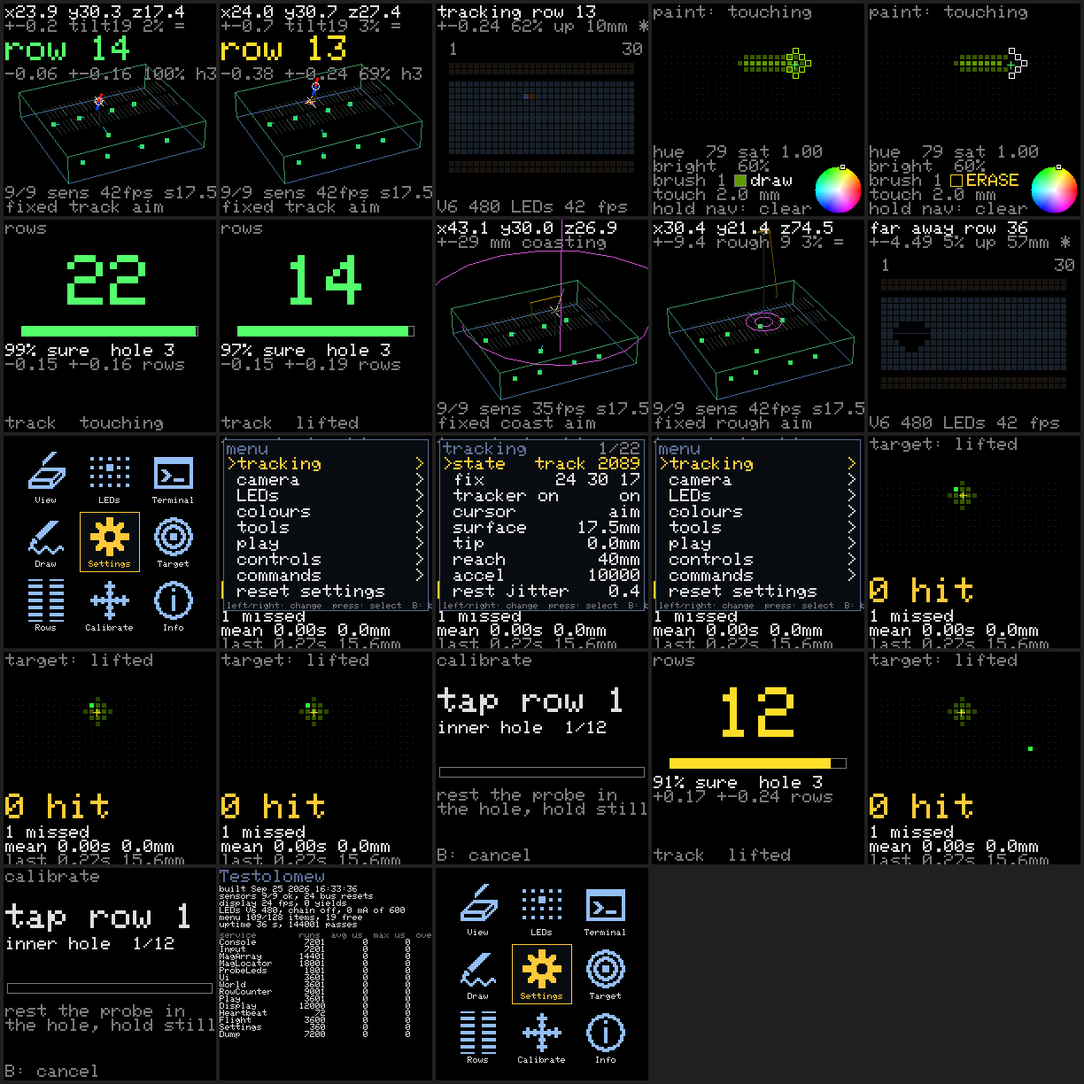
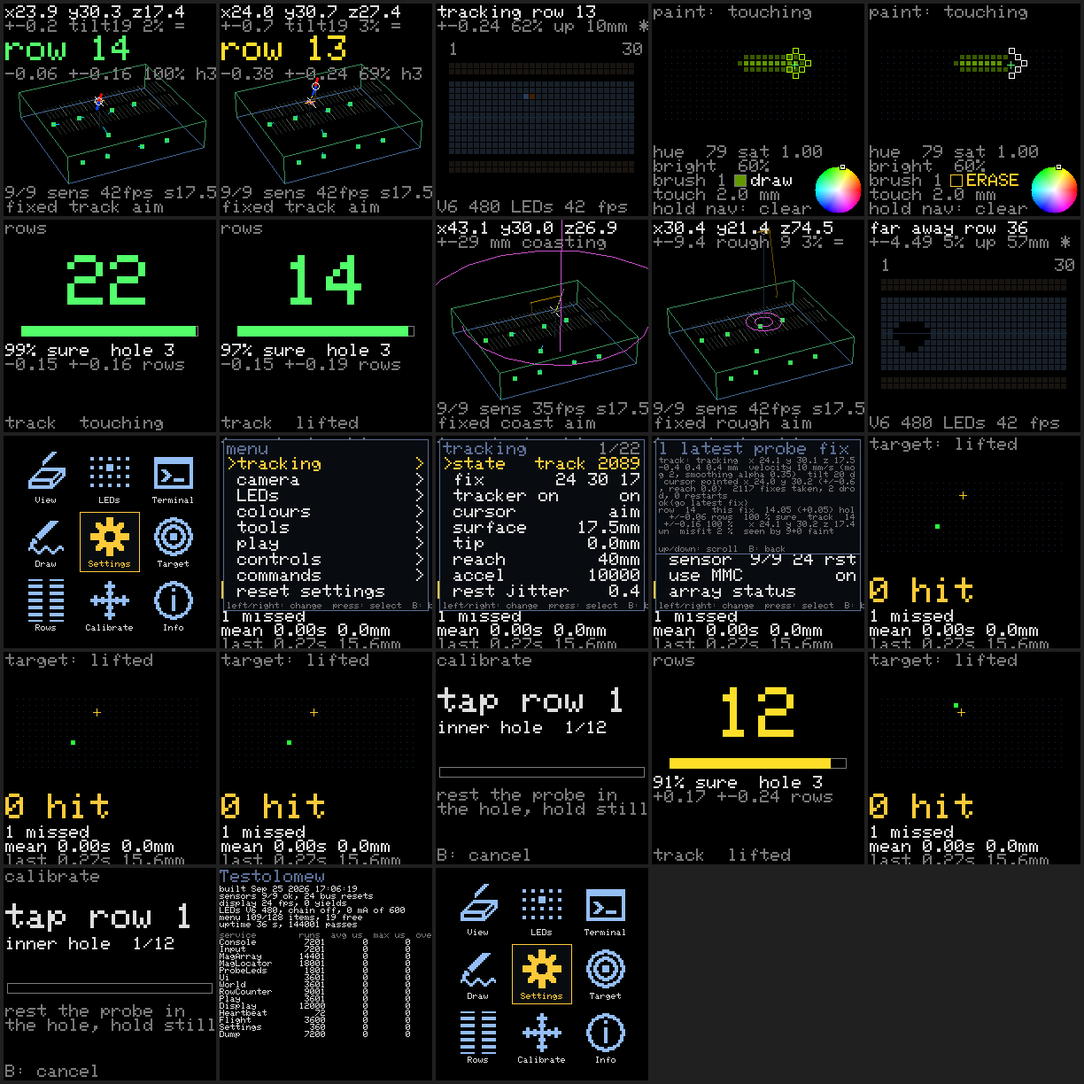
The review's fix pass on 48086e4 (five reviewers by dimension, three skeptics per finding: 21 confirmed, 6 refuted). A toggle and a choice act on the CLICK, not the press, so a select HELD on one tweaks it without ever touching it (UiShell::actsOnClick; the hold's undo ran an accessor's setter twice

diff --git a/src/apps/SettingsMenu.cpp b/src/apps/SettingsMenu.cpp
@@ -197,22 +197,22 @@ void settingsMenuBuild( Menu* m ) {
     menuAddChoiceAccessor( m, tracking, "cursor", getCursorMode, setCursorMode, cursorModeNames, 2 );
     menuAddNumber( m, tracking, "surface", &magLocator.boardZ, 0.0f, 60.0f, 0.5f, "mm" );
     menuAddNumber( m, tracking, "tip", &magLocator.tipOffsetMm, 0.0f, 60.0f, 0.5f, "mm" );
-    menuAddNumber( m, tracking, "reach", &magLocator.track.maxReachMm, 5.0f, 40.0f, 2.5f, "mm" ); // (5-100 until 2026-09-25: past 40 it never engages - the reach is the drop x tan 70 deg at most)
+    menuAddNumber( m, tracking, "reach", &magLocator.track.maxReachMm, 5.0f, 60.0f, 2.5f, "mm" ); // (5-100 until 2026-09-25: the reach is the drop x tan 70 deg at most - 55 mm from a 20 mm hover - so 60 is the useful end)
     // The smoothing, the levers that are felt first (tools/hostsim/pencil.cpp,
     // 2026-09-25: the ranges are where the pencil measured a change):
     // accel sets the Kalman's rest jitter against its lag (0.075 mm at 500
     // to 0.5 at 20000 in the bench-like world, 40 to 20 ms), rest jitter
     // the field EMA's (0: three times the jitter; 2: half, +10 ms), the
-    // betas how fast the 1-Euro filters open with speed (their whole
-    // effect is under 0.5; at 1 they were flat), the Hz where they sit at
+    // betas how fast the 1-Euro filters open with speed (the lag's whole
+    // effect is under 0.5, the jitter's runs on to 2), the Hz where they sit at
     // rest - which only shows with the beta low, since the rest jitter's
     // own speed opens the cutoff by beta x 2-5 mm/s.
     menuAddNumber( m, tracking, "accel", &magLocator.track.accelSigma, 250.0f, 20000.0f, 250.0f, "" );
     menuAddNumber( m, tracking, "rest jitter", &magLocator.speedJitterK, 0.0f, 3.0f, 0.1f, "" );
     menuAddNumber( m, tracking, "view Hz", &magLocator.track.viewMinCutoff, 0.1f, 5.0f, 0.1f, "" );
-    menuAddNumber( m, tracking, "view beta", &magLocator.track.viewBeta, 0.0f, 0.5f, 0.01f, "" );
+    menuAddNumber( m, tracking, "view beta", &magLocator.track.viewBeta, 0.0f, 2.0f, 0.02f, "" );
     menuAddNumber( m, tracking, "cursor Hz", &magLocator.track.oneEuroMinCutoff, 0.1f, 5.0f, 0.1f, "" );
-    menuAddNumber( m, tracking, "cursor beta", &magLocator.track.oneEuroBeta, 0.0f, 0.5f, 0.01f, "" );
+    menuAddNumber( m, tracking, "cursor beta", &magLocator.track.oneEuroBeta, 0.0f, 2.0f, 0.02f, "" );
     menuAddNumber( m, tracking, "shaft Hz", &magLocator.track.shaftMinCutoff, 0.1f, 5.0f, 0.1f, "" );
     menuAddNumber( m, tracking, "shaft beta", &magLocator.track.shaftBeta, 0.0f, 10.0f, 0.25f, "" );
     menuAddNumber( m, tracking, "floor", &magLocator.track.sigmaFloorMm, 0.1f, 3.0f, 0.1f, "mm" );

diff --git a/src/probeled/ProbeLeds.h b/src/probeled/ProbeLeds.h
@@ -34,8 +34,10 @@
 // whole wheel mapped the style's way (hueTurns turns of it over the scale,
 // from hueStartDeg; under a turn a chunk of the spectrum as a gradient,
 // over it several rainbows; the height scale liftFullMm) and, in every
-// scheme, the cursor WHITE with the point on the board, all the scheme's
-// colour from colourByMm up. What DIMS the cursor (brightBy, by
+// scheme but classic, which keeps its own white-to-blue ramp over the
+// height scale and reads none of the wheel's levers, the cursor WHITE with
+// the point on the board and all the scheme's colour from colourByMm up.
+// What DIMS the cursor (brightBy, by
 // brightAmount at the data's far end) and what raises the SPARKLE's density
 // (sparkleBy) are chosen from the same data: how unsure the row is, the
 // height, the tilt, the speed, or nothing. FULL PEAK (the brightest LED is always the peak,
@@ -143,7 +145,7 @@ enum ProbeLedScheme {
     PROBELED_SCHEME_CLASSIC, // white on the board, blue lifted (touch/lift colours below), purple from afar
     PROBELED_SCHEME_HEIGHT,  // hue by height: hueTurns of the wheel from the board to liftFullMm
     PROBELED_SCHEME_SURE,    // hue by how sure the row is: the wheel from a toss-up to certain
-    PROBELED_SCHEME_AIM,     // hue by which way the probe leans (a turn of the wheel is the compass), white standing straight, all colour from PROBELED_AIM_FULL_DEG of lean
+    PROBELED_SCHEME_AIM,     // hue by which way the probe leans (one turn of the wheel is the compass, whatever hueTurns says), white standing straight, all colour from PROBELED_AIM_FULL_DEG of lean
     PROBELED_SCHEME_RAINBOW, // hue runs along the board (hueTurns over its 30 rows) and round with time
     PROBELED_SCHEME_COUNT
 };
@@ -204,7 +206,7 @@ struct ProbeLedStyle {
     float attackS, decayS; // per-LED smoothing time constants
     // The looks.
     int scheme;         // ProbeLedScheme
-    float hueTurns;     // turns of the wheel over the scheme's scale (under 1 a chunk of the spectrum, over 1 several rainbows)
+    float hueTurns;     // turns of the wheel over the scheme's scale - the height (held at the scale's end above it), the sureness, the board's rows (under 1 a chunk of the spectrum, over 1 several rainbows; not the aim's compass, not classic)
     float hueStartDeg;  // where the wheel starts (0 red, 120 green, 240 blue)
     float colourByMm;   // the scheme's colour is all in from this height (white on the board below PROBELED_WHITE_BELOW_MM)
     int brightBy;       // ProbeLedData: what dims the cursor...

diff --git a/src/ui/UiShell.cpp b/src/ui/UiShell.cpp
@@ -139,26 +139,25 @@ void uiShellShowResult( UiShell* s, const char* title, int lines, int visible ) 
         noteChange( s );
 }
 
+// A toggle or a choice acts on the CLICK (the release of a short press),
+// not on the press like a page or an action, so that a press HELD on it
+// tweaks it without touching it: an accessor's setter with side effects
+// (the tracker reset, the chain darkened and re-lit) must not run for a
+// look at the value (the review, 2026-09-25).
+static bool actsOnClick( const UiShell* s, int index ) {
+    return index >= 0 && ( s->menu.items[ index ].kind == MENU_TOGGLE || s->menu.items[ index ].kind == MENU_CHOICE );
+}
+
 // A select held on a value item of the menu page: the value is tweaked
-// over the app. The press that started the hold has already acted on a
-// toggle or a choice (a press selects on its way down): that is taken back.
-// A hold whose press led elsewhere (into a page, an action) is nothing.
+// over the app. A hold whose press led elsewhere (into a page, an action)
+// is nothing.
 static void openTweak( UiShell* s ) {
     int index = menuCursorItem( &s->menu );
     if ( index < 0 || index != s->selectPressItem )
         return;
-    switch ( s->menu.items[ index ].kind ) {
-    case MENU_TOGGLE:
-        menuToggleSet( &s->menu, index, !menuToggleGet( &s->menu, index ) );
-        break;
-    case MENU_CHOICE:
-        menuChoiceSet( &s->menu, index, menuChoiceGet( &s->menu, index ) - 1 );
-        break;
-    case MENU_NUMBER:
-        break;
-    default:
+    MenuKind kind = s->menu.items[ index ].kind;
+    if ( kind != MENU_TOGGLE && kind != MENU_CHOICE && kind != MENU_NUMBER )
         return;
-    }
     push( s, PANE_TWEAK );
 }
 
@@ -276,8 +275,12 @@ int uiShellEvent( UiShell* s, InputEvent e, uint32_t nowMs ) {
         if ( isSelect( c ) ) {
             if ( e.kind == IN_PRESS ) {
                 s->selectPressItem = menuCursorItem( &s->menu );
+                if ( actsOnClick( s, s->selectPressItem ) )
+                    return -1; // a toggle, a choice: on the click (or held: the tweak)
                 return menuAction( s, menuKey( &s->menu, MENUKEY_ENTER, false ) );
             }
+            if ( e.kind == IN_CLICK && actsOnClick( s, menuCursorItem( &s->menu ) ) && menuCursorItem( &s->menu ) == s->selectPressItem )
+                return menuAction( s, menuKey( &s->menu, MENUKEY_ENTER, false ) );
             if ( e.kind == IN_HOLD )
                 openTweak( s );
             return -1;

diff --git a/test/test_probeleds/test_probeleds.cpp b/test/test_probeleds/test_probeleds.cpp
@@ -310,6 +310,20 @@ void test_hue_scale_turns_and_start( void ) {
     probeLedRender( &v6, &in, &style, 0.02f, &frame );
     b = brightest( &frame );
     TEST_ASSERT_TRUE( frame.r[ b ] == 255 && frame.g[ b ] > 150 && frame.g[ b ] < 220 && frame.b[ b ] < 10 );
+    // Above the scale the colour holds at the wheel's end (the review,
+    // 2026-09-25: unclamped, a probe 20-45 mm up cycled the wheel and read as
+    // any height on the scale).
+    style.hueTurns = 0.667f;
+    in.heightMm = 20.0f;
+    probeLedRender( &v6, &in, &style, 0.02f, &frame );
+    b = brightest( &frame );
+    uint8_t topR = frame.r[ b ], topG = frame.g[ b ], topB = frame.b[ b ];
+    in.heightMm = 45.0f;
+    probeLedRender( &v6, &in, &style, 0.02f, &frame );
+    b = brightest( &frame );
+    TEST_ASSERT_TRUE( abs( (int)frame.r[ b ] - (int)topR ) < 3 && abs( (int)frame.g[ b ] - (int)topG ) < 3 && abs( (int)frame.b[ b ] - (int)topB ) < 3 );
+    in.heightMm = 10.0f;
+    style.hueTurns = 0.25f;
     // The colour is all in from colourByMm up; on the board it is white.
     style.colourByMm = 12.0f;
     probeLedRender( &v6, &in, &style, 0.02f, &frame ); // 10 mm: most of the way from 1.5 to 12
@@ -361,6 +375,18 @@ void test_aim_scheme_colours_by_the_lean( void ) {
     probeLedRender( &v6, &in, &style, 0.02f, &frame );
     b = brightest( &frame );
     TEST_ASSERT_TRUE( frame.g[ b ] == 255 && frame.r[ b ] < 60 && frame.b[ b ] < 60 ); // a third round: green
+    // The compass is one turn of the wheel whatever the turns lever says: a
+    // lean a hair either side of +x is the same colour (the review,
+    // 2026-09-25: at 0.667 turns the hue jumped red/blue at the seam).
+    style.hueTurns = 0.667f;
+    in.aimDeg = 359.5f;
+    probeLedRender( &v6, &in, &style, 0.02f, &frame );
+    b = brightest( &frame );
+    uint8_t r0 = frame.r[ b ], g0 = frame.g[ b ], b0 = frame.b[ b ];
+    in.aimDeg = 0.5f;
+    probeLedRender( &v6, &in, &style, 0.02f, &frame );
+    b = brightest( &frame );
+    TEST_ASSERT_TRUE( abs( (int)frame.r[ b ] - (int)r0 ) < 8 && abs( (int)frame.g[ b ] - (int)g0 ) < 8 && abs( (int)frame.b[ b ] - (int)b0 ) < 8 );
 }
 
 // What dims the cursor, and by how much, is the style's: unsure (the old

diff --git a/src/ui/UiShell.h b/src/ui/UiShell.h
@@ -15,8 +15,13 @@
 //                   selects; B closes
 //   Home            (opens with the cursor on Settings, the centre cell)
 //   Settings page   up/down move, LEFT/RIGHT CHANGE THE VALUE IN PLACE, a
-//                   press enters / runs / flips / cycles, a press HELD on a
-//                   toggle, a number or a choice tweaks it (below), B backs
+//                   press enters a page or runs an action on its way down;
+//                   a toggle flips and a choice cycles on the CLICK (the
+//                   release of a short press), so a press HELD on a toggle,
+//                   a number or a choice tweaks it (below) without ever
+//                   touching it (an accessor's setter with side effects -
+//                   the tracker reset, the chain darkened - must not run
+//                   for a look at the value; the review, 2026-09-25), B backs
 //                   a page (at the root: closes), B hold closes everything
 //                   (the page is kept: the menu opens again where it was
 //                   last used, even after B backed it out to the root)
@@ -24,9 +29,7 @@
 //                   value along the bottom: left/right change it, up/down
 //                   move to the neighbouring items, the joystick is the
 //                   app's (it orbits the scene being looked at); a press or
-//                   B: the menu again; B hold: everything closes. (The
-//                   press that started the hold already flipped a toggle or
-//                   cycled a choice: the hold takes that back.)
+//                   B: the menu again; B hold: everything closes.
 //   Confirm         a press or A: yes; B: no; B hold: everything closes
 //   Result          up/down scroll; a press, A or B dismiss
 //   20 s idle       overlays close (cursors and the page remembered) - not

diff --git a/src/probeled/ProbeLeds.cpp b/src/probeled/ProbeLeds.cpp
@@ -287,7 +287,7 @@ static void schemeColour( const ProbeLedStyle* style, const ProbeLedInput* in, f
     float wheel = style->hueTurns * 360.0f; // the wheel over the scheme's scale (probeLedHue wraps: over a turn is several rainbows)
     switch ( style->scheme ) {
     case PROBELED_SCHEME_HEIGHT:
-        probeLedHue( style->hueStartDeg + wheel * in->heightMm / style->liftFullMm, 1.0f, r, g, b );
+        probeLedHue( style->hueStartDeg + wheel * clamp01( in->heightMm / style->liftFullMm ), 1.0f, r, g, b ); // above the scale the wheel's end holds (unclamped, a probe 20-45 mm up read as any height: the review, 2026-09-25)
         whiteTo( r, g, b, colourByHeight( style, in->heightMm ) );
         break;
     case PROBELED_SCHEME_SURE:
@@ -295,8 +295,11 @@ static void schemeColour( const ProbeLedStyle* style, const ProbeLedInput* in, f
         whiteTo( r, g, b, colourByHeight( style, in->heightMm ) );
         break;
     case PROBELED_SCHEME_AIM:
-        // Which way the probe leans, round the wheel; white standing straight.
-        probeLedHue( style->hueStartDeg + style->hueTurns * in->aimDeg, 1.0f, r, g, b );
+        // Which way the probe leans, once round the wheel (the turns lever
+        // does not apply: at anything but a whole turn the compass had a
+        // seam at +x, red one frame and blue the next as the lean's y
+        // jittered about zero); white standing straight.
+        probeLedHue( style->hueStartDeg + in->aimDeg, 1.0f, r, g, b );
         whiteTo( r, g, b, colourByHeight( style, in->heightMm ) * clamp01( in->tiltDeg / PROBELED_AIM_FULL_DEG ) );
         break;
     case PROBELED_SCHEME_RAINBOW:

diff --git a/test/test_ui/test_ui.cpp b/test/test_ui/test_ui.cpp
@@ -455,18 +455,27 @@ void test_shell_tweak_edits_a_value_over_the_app( void ) {
     tap( IN_BTN_B ); // the menu again, where the cursor is
     TEST_ASSERT_EQUAL( PANE_MENU, uiShellTop( &shell ) );
     TEST_ASSERT_EQUAL( 0, shell.menu.cursor );
-    // A hold on a toggle: the press flipped it, the hold takes that back.
+    // A toggle (and a choice) flips on the CLICK, not the press, so a hold
+    // never touches it - an accessor's setter with side effects (the
+    // tracker reset, the chain darkened) must not run twice for a look
+    // at the value (the review, 2026-09-25).
+    TEST_ASSERT_TRUE( flag );
     send( IN_NAV_PRESS, IN_PRESS );
-    TEST_ASSERT_FALSE( flag );
+    TEST_ASSERT_TRUE( flag );
     send( IN_NAV_PRESS, IN_HOLD );
     TEST_ASSERT_TRUE( flag );
     TEST_ASSERT_EQUAL( PANE_TWEAK, uiShellTop( &shell ) );
     send( IN_NAV_PRESS, IN_RELEASE );
-    tap( IN_NAV_PRESS ); // a press: the menu again
+    TEST_ASSERT_TRUE( flag );
+    tap( IN_NAV_PRESS ); // a press: the menu again (the tap's click does not flip: it closed the tweak)
     TEST_ASSERT_EQUAL( PANE_MENU, uiShellTop( &shell ) );
+    TEST_ASSERT_TRUE( flag );
+    tap( IN_NAV_PRESS ); // ...and a tap on the menu flips it, on the click
+    TEST_ASSERT_FALSE( flag );
     send( IN_NAV_PRESS, IN_PRESS );
     send( IN_NAV_PRESS, IN_HOLD );
     TEST_ASSERT_EQUAL( PANE_TWEAK, uiShellTop( &shell ) );
+    TEST_ASSERT_FALSE( flag );
     send( IN_NAV_PRESS, IN_RELEASE );
     send( IN_BTN_B, IN_PRESS ); // B held: everything closes
     send( IN_BTN_B, IN_HOLD );

diff --git a/src/settings/Settings.cpp b/src/settings/Settings.cpp
@@ -281,7 +281,13 @@ int SettingsService::apply( const char* text ) {
                 }
 #endif
             } else if ( menu != nullptr ) {
-                if ( oldTuning && ( strncmp( line, "tracking/", 9 ) == 0 || strncmp( line, "tracker/", 8 ) == 0 || strncmp( line, "smoothing/", 10 ) == 0 || strncmp( line, "play/touch", 10 ) == 0 ) ) {
+                // The tracking page's levers yield to an older tuning; its
+                // geometry (the surface the row calibration measured, the
+                // tip, the reach) and the cursor mode are not tuning and are
+                // kept (they came from the cursor page until 2026-09-25,
+                // which the skip never touched).
+                bool geometry = strncmp( line, "tracking/surface", 16 ) == 0 || strncmp( line, "tracking/tip", 12 ) == 0 || strncmp( line, "tracking/reach", 14 ) == 0 || strncmp( line, "tracking/cursor", 15 ) == 0;
+                if ( oldTuning && !geometry && ( strncmp( line, "tracking/", 9 ) == 0 || strncmp( line, "tracker/", 8 ) == 0 || strncmp( line, "smoothing/", 10 ) == 0 || strncmp( line, "play/touch", 10 ) == 0 ) ) {
                     if ( end == nullptr )
                         break;
                     line = end + 1;

diff --git a/src/main.cpp b/src/main.cpp
@@ -349,7 +349,7 @@ static void onLoadVerb( int argc, char** argv, Stream* out ) {
                 consoleOk( out, on ? "fit running" : "fit held (the frames flow; nothing is fitted, so no fix, no tracking)" );
             } else {
                 magLocator.steadyFit = argv[ 2 ][ 0 ] == 's';
-                consoleOk( out, magLocator.steadyFit ? "fit load steady: 'fit iters' iterations every frame (the tracker page, saved)" : "fit load burst: the natural caps, cold-start slices every 25 ms" );
+                consoleOk( out, magLocator.steadyFit ? "fit load steady: 'fit iters' iterations every frame (the tracking page, saved)" : "fit load burst: the natural caps, cold-start slices every 25 ms" );
             }
 #else
             consoleErr( out, "no locator in this build" );

diff --git a/src/apps/AppView.cpp b/src/apps/AppView.cpp
@@ -408,8 +408,9 @@ static void drawMagnet( ) {
     // The magnet: a bar along its axis, north half red, south half blue,
     // three pixels thick. While coasting, a thin grey one.
     if ( coasting ) {
-        Vec3 n = { m.x + MAGNET_HALF_LENGTH_MM * axis.x, m.y + MAGNET_HALF_LENGTH_MM * axis.y, m.z + MAGNET_HALF_LENGTH_MM * axis.z };
-        Vec3 sth = { m.x - MAGNET_HALF_LENGTH_MM * axis.x, m.y - MAGNET_HALF_LENGTH_MM * axis.y, m.z - MAGNET_HALF_LENGTH_MM * axis.z };
+        float h = viewStyle.poleMm;
+        Vec3 n = { m.x + h * axis.x, m.y + h * axis.y, m.z + h * axis.z };
+        Vec3 sth = { m.x - h * axis.x, m.y - h * axis.y, m.z - h * axis.z };
         line3d( n, sth, COLOR_TEXT_DIM );
     } else {
         drawMagnetBar( m, fix.axis, false, viewStyle.poleMm );

diff --git a/src/magfit/MagLocator.cpp b/src/magfit/MagLocator.cpp
@@ -181,7 +181,7 @@ static void onTipSolve( Stream* out ) {
     if ( t < 0.0f )
         t = 0.0f;
     magLocator.tipOffsetMm = t;
-    snprintf( line, sizeof( line ), "tip offset %.1f mm from %d angles (the points then agree to %.2f mm rms about the hole at %.1f %.1f %.1f): in use, and saved as cursor/tip", t, n, rms, c.x, c.y, c.z );
+    snprintf( line, sizeof( line ), "tip offset %.1f mm from %d angles (the points then agree to %.2f mm rms about the hole at %.1f %.1f %.1f): in use, and saved as tracking/tip", t, n, rms, c.x, c.y, c.z );
     out->println( line );
     tipCalCount = 0;
 }

diff --git a/docs/knobs.md b/docs/knobs.md
@@ -6,7 +6,7 @@ Written 2026-09-19 (midday) as the hand-over for a new chat, after the night of 
 
 - **Every NUMBER, TOGGLE and CHOICE item on the on-screen menu is saved** to the flash tail by `src/settings` (the core's EEPROM library), keyed by `page/label`, and put back at boot. Change it in the menu or with a console command; two seconds after it stops changing it is written. `s` prints what is saved, `Z` (menu: "reset settings") puts everything back to the compile-time defaults and forgets the row anchors.
 - **Not saved** (modes, in `unsaved[]` in `Settings.cpp`): row mode, the LED chain on/off, the V5 console stream, the play mode. They come up as the firmware boots them: row mode on, chain on, stream off, play off. The settings module captures every item's default from its getter after the modules have begun, and a reset writes through the setters only what differs, so neither a load nor a reset forces a mode (for a day every boot had switched row mode and the chain off through the old mirror variables).
-- **Renaming an item retires its saved value** (the old key is dropped, the default takes). `SETTINGS_TUNING_VERSION` (3) does the same for the tracker and smoothing pages and `play/touch` when their defaults improve.
+- **Renaming an item retires its saved value** (the old key is dropped, the default takes). `SETTINGS_TUNING_VERSION` (4) does the same for the tracking page's levers (not its surface, tip, reach or cursor mode, which are geometry) and `play/touch` when their defaults improve.
 - Also saved, not menu items: the array's **zero** (one `sensorzero=` line per sensor that has a settled zero, in the SENSOR'S OWN frame - the reading before the table's gain, rotation and flip - so a row calibrated later does not turn it into a phantom; the board-frame `zero=` lines written before the evening of 2026-09-21 are still read, and dropped at the next write; a provisional zero is not written) and the last good **magnet** fix (for `Y`). The row **anchors** too (none saved at the moment).
 - A chip **erase** (not a flash) wipes all of it. Then the board boots with the compiled-in zero `MAG_ZERO_AT_BOOT` (this morning's clean one) rather than zeroing blind - a blind zero with the probe near the board eats its field and every fit after it is wrong (07:36 this morning: misfit 20-50 %, height 5 mm out, LEDs white).
 
@@ -47,10 +47,10 @@ One page for everything continuous about the probe's pose (2026-09-25; the track
 | cursor | `under` = straight under the tip; `aim` = where the tip points on the surface, down the shaft | aim |
 | surface | `boardZ` - the breadboard's surface height above the sensors (mm). **Also learned**: when the point bottoms out at the same height three seconds running, below the setting, the setting comes down to it (never up). `S` sets it by hand | 17.5 (compile-time); learned ~10.8 on the bench |
 | tip | `tipOffsetMm` - the magnet's centre this far up the shaft from the point (mm); `t` on the console | 0 |
-| reach | the pointer never reaches further from the tip than this (mm); 5-40 (to 100 until 2026-09-25: the reach is the drop x tan 70 deg at most, so past 40 it never engaged; and the raw pointer - the LEDs with the tracker off - now honours it too, it read the define) | 40 |
+| reach | the pointer never reaches further from the tip than this (mm); 5-60 (to 100 until 2026-09-25: the reach is the drop x tan 70 deg at most, 55 mm from a 20 mm hover, so 60 is the useful end; and the raw pointer - the LEDs with the tracker off - now honours it too, it read the define) | 40 |
 | accel | the tracker's process noise (mm/s²): how jerky a hand may be - **the lever that sets rest jitter against lag**, and its effect is logarithmic: in the bench-like pencil the track's rest jitter is 0.075 mm at 500, 0.16 at 3000, 0.28 at 10000, 0.50 at 20000, for 40 / 20 / 20 / 20 ms of lag; 500 also halves a far hover's error. 250-20000 in 250s | 10000 |
 | rest jitter | `speedJitterK` (compile-time `MAGLOC_SPEED_JITTER_K` until 2026-09-25) - how much of the fit's own error bar is taken out of the speed the field smoothing follows: 0 lets the field EMA open at rest (three times the jitter), 2 halves it for +10 ms of lag. The bench feels this one and accel before any 1-Euro lever | 0.4 |
-| view Hz / view beta | the 1-Euro filter on what the 3D SCENE draws of the magnet: the cutoff at rest (Hz), and how fast it opens with speed (beta, per mm/s). The whole of beta's effect is under 0.5 (0: 120 ms of lag; 0.05: 40; 0.2: 30; 0.5: 20; at 1 it was flat, so the range ends at 0.5 now) and the Hz only shows with the beta low: the rest jitter's own speed, 2-5 mm/s, opens the cutoff by beta times that. Hz 0.1-5 | 1.5 / 0.5 |
+| view Hz / view beta | the 1-Euro filter on what the 3D SCENE draws of the magnet: the cutoff at rest (Hz), and how fast it opens with speed (beta, per mm/s). The lag's whole effect is under 0.5 (0: 120 ms; 0.05: 40; 0.2: 30; 0.5: 20) and the jitter's runs on (view jitter 0.033 mm at 0.5, 0.039 at 1, 0.047 at 2, for a moving error of 1.16, 1.07, 1.01), so 0-2 in 0.02s; the Hz only shows with the beta low: the rest jitter's own speed, 2-5 mm/s, opens the cutoff by beta times that. Hz 0.1-5 | 1.5 / 0.5 |
 | cursor Hz / cursor beta | the same for the LED cursor / pointer (x and y; the height is the Kalman's alone) | 1.0 / 0.5 |
 | shaft Hz / shaft beta | the same for the shaft direction (the angle the pointer projects along): beta's effect is under 3 (0: 5.2 deg turning; 1: 2.7; 3: 2.2; 10: 1.9), 0-10 in quarters | 1.0 / 10 |
 | floor | `sigmaFloorMm` - the array's systematic error added to every fix's error bar (mm); the tracker's gate and weights use it, and the glow's width | 0.4 |
@@ -87,11 +87,11 @@ The cursor's colours (2026-09-25; `src/probeled/ProbeLeds.h`): every scheme uses
 
 | item | what it does | default |
 |---|---|---|
-| scheme | what drives the hue: `classic` (white on the board, blue in the air), `height` (the wheel from the board to the height scale), `sure` (the wheel from a toss-up row to a certain one), `aim` (the direction the probe leans is the hue - a turn of the wheel is the compass - white standing straight, all colour from 30 deg of lean), `rainbow` (the wheel along the board's rows, turning with time). Every scheme is white with the point on the board (below 1.5 mm) and takes its colour from `colour from` up | classic |
-| turns | turns of the wheel over the scheme's scale: under 1 a chunk of the spectrum as a gradient (0.25 = a quarter of it), 1 the whole spectrum once, over 1 several rainbows | 0.667 (red to blue) |
+| scheme | what drives the hue: `classic` (white on the board, blue in the air: its own ramp over the height scale, reading none of the wheel items below), `height` (the wheel from the board to the height scale, held at the wheel's end above it), `sure` (the wheel from a toss-up row to a certain one), `aim` (the direction the probe leans is the hue - one turn of the wheel is the compass, whatever `turns` says - white standing straight, all colour from 30 deg of lean), `rainbow` (the wheel along the board's rows, turning with time). Every scheme is white with the point on the board (below 1.5 mm); the four wheel schemes take their colour from `colour from` up | classic |
+| turns | turns of the wheel over the scheme's scale (the height, the sureness, the board's rows): under 1 a chunk of the spectrum as a gradient (0.25 = a quarter of it), 1 the whole spectrum once, over 1 several rainbows | 0.667 (red to blue) |
 | hue start | where the wheel starts (0 red, 120 green, 240 blue) | 0 |
 | height scale | the height (mm) the height scheme's wheel runs to, and classic's colour is all "lift" (`liftFullMm`; the sparkle's and the brightness's height data end there too) | 15 |
-| colour from | the height (mm) from which the scheme's colour is all in (white on the board below 1.5 mm, blended between) | 6 |
+| colour from | the height (mm) from which a wheel scheme's colour is all in (white on the board below 1.5 mm, blended between; classic has its own ramp) | 6 |
 | bright by / bright amount | what DIMS the cursor - `unsure` (how far the row is from certain), `height`, `tilt` (60 deg is the far end), `speed` (200 mm/s), or `none` - and by how much at the data's far end. The default is the rule as it was: a coin-toss row at half | unsure / 0.5 |
 | sparkle by | what raises the sparkle's density from a tenth of the lever to all of it: `height` (as it was: few on the board, many lifted), `unsure`, `tilt`, `speed`, or `none` (the lever alone, the same everywhere) | height |
 | poles | the View's magnet bar: its north and south halves coloured, or a thin plain bar (the bar was 3 px of red and blue, fixed; Kevin: "a bit intense now that I'm using a stronger magnet") | on |
@@ -183,12 +183,12 @@ Values are the ones in the tree now. "Where" is the header.
 - `MAGLOC_REFERENCE_*`: the reference fix (row 35 hole 3, last night's mounting) for `Y1`.
 - `MAGLOC_BOARD_Z_MM` 17.5, `MAGLOC_TIP_OFFSET_MM` 0, `MAGLOC_PRESENT_MT` 0.04.
 
-**Tracker** (`src/magfit/MagTracker.h`): `MAGTRACK_ACCEL_SIGMA` 10000, `MAGTRACK_ROUGH_ACCEL_SIGMA` 2000, `MAGTRACK_GATE` 4, `MAGTRACK_SIGMA_FLOOR_MM` 0.3, the 1-Euro cutoffs/betas as in the smoothing page, `MAGTRACK_ROUGH_HOLD_S` 2.5, `MAGTRACK_ROUGH_SPREAD_MM_S` 8, `MAGTRACK_MAX_REACH_MM` 40.
+**Tracker** (`src/magfit/MagTracker.h`): `MAGTRACK_ACCEL_SIGMA` 10000, `MAGTRACK_ROUGH_ACCEL_SIGMA` 2000, `MAGTRACK_GATE` 4, `MAGTRACK_SIGMA_FLOOR_MM` 0.4, the 1-Euro cutoffs/betas as on the tracking page, `MAGTRACK_ROUGH_HOLD_S` 1.0, `MAGTRACK_ROUGH_SPREAD_MM_S` 8, `MAGTRACK_MAX_REACH_MM` 40.
 
 **LEDs** (`src/probeled/ProbeLeds.h`, `ProbeLedService.h`)
-- `PROBELED_MA_PER_CHANNEL` 12 (was 8: the cautious end for 1010 RGB LEDs), `PROBELED_STRIP_MAX_MA` 1000 (the budget's default), `PROBELED_STRIP_HARD_MAX_MA` 2000 (the ceiling). Scaled channels are truncated, not rounded (rounding up on 1200 channels was 28 mA past the line). Every path to the chain goes through `sendFrame`.
+- `PROBELED_MA_PER_CHANNEL` 12 (was 8: the cautious end for 1010 RGB LEDs), `PROBELED_STRIP_MAX_MA` 600 (the budget's default), `PROBELED_STRIP_HARD_MAX_MA` 800 (the ceiling). Scaled channels are truncated, not rounded (rounding up on 1200 channels was 28 mA past the line). Every path to the chain goes through `sendFrame`.
 - `PROBELED_MAX_SIGMA_ROWS` 3 / `PROBELED_MAX_SIGMA_ACROSS_MM` 7: the glow is never wider; its floor fades out from twice the narrowest width to nothing at the widest (a probe pulled away shrinks into a dimming patch, not a disc over the board). `PROBELED_ROUGH_LEAST` 0.03: the far probe's faint "about here".
-- `PROBELED_WHITE_BELOW_MM` 1.5 / `PROBELED_COLOUR_BY_MM` 6: white on the board, the scheme's colour from 6 mm up. `PROBELED_SPARKLE_TINT` 0.25, `PROBELED_SPARKLE_FLOOR` 0.1.
+- `PROBELED_WHITE_BELOW_MM` 1.5: white on the board; the scheme's colour is all in from the colours page's `colour from` (the style's `colourByMm`, 6 mm; a define until 2026-09-25). `PROBELED_SPARKLE_TINT` 0.25, `PROBELED_SPARKLE_FLOOR` 0.1.
 - The touch ring: `PROBELED_RING_S` 0.14 (its life), `PROBELED_RING_ROWS_PER_S` 36, `PROBELED_RING_WIDTH_ROWS` 1.5 (the LED on the ring at full, fading to nothing a row and a half out), `PROBELED_RING_DECAY_S` 0.02 (the LEDs it passed go dark at once, so it stays a ring), `PROBELED_RING_STEP_ROWS` 0.8 and `PROBELED_RING_REARM_S` 0.1 (a re-ring while sliding needs the point 0.8 rows from the last ring and the last ring 100 ms old). `PROBELED_TOUCH_MM` 2.0 / `PROBELED_LIFTED_MM` 5 (down / lifted for the ring).
 - `LEDSTRIP_SPI_HZ` 3125000 (four SPI bits a WS2812 bit); the SCK pad is put back to an input and MOSI on the 10 MHz driver (the 3 MHz clock wedged the sensor bus). The symbol encoder is arithmetic, not a flash table (the table cost 2.6 ms a frame).
 - `PROBELED_PERIOD_US` 20000 (50 Hz); the LED service runs ~0.5 ms.
@@ -212,7 +212,7 @@ Values are the ones in the tree now. "Where" is the header.
 - **The flight recorder** (`main.cpp`, 2026-09-21 evening): every 10 ms the state that draws from the rail - uptime, the chain's last frame in mA and the biggest step, the budget, how long since the chain was re-lit after a settings write, whether a write is in progress, the fit's state and cold starts, the strongest reading, which pane is on the screen and the menu item under the cursor, the display's fps - goes into `.xcore`, the shared RAM the linker neither loads nor clears and a reset does not touch. At boot it is printed right after the banner (under the core's `rst=` line: `por` = the rail went down, `soft` alone = a flash or the debugger, `iwdg`/`lockup` = a firmware fault) as "flight recorder: the last run ended after 812.3 s ... strip 640 mA (budget 1000, biggest step 310, re-lit 80 ms before); fit tracking ...; screen a menu page at bright ...; settings write no". A magic word with the record's size in it, a sum over the fields and a range check keep a power-up's noise, or an older build's bytes, from reading as a record.
 
 - The V3F (core 0, 100 MHz) has no instruction cache and its `micros()` has no sub-millisecond part; code it runs in a loop goes in ITCM, and `millis()` is its clock. A `static const` table read per LED on the main core is a flash data read the I-cache does not help with.
-- The joystick's push read high at rest on the bench of 2026-09-19 (`j` shows it): an ordinary switch to ground, `JOY_PRESS_ACTIVE_LOW 1` in `BoardPins.h`. A click is the release of a press shorter than 500 ms (`src/ui/ButtonTracker.h`); a hold fires at 500 ms and is never also a click.
+- The joystick's push read high at rest on the bench of 2026-09-19 (`j` shows it): an ordinary switch to ground, `JOY_PRESS_ACTIVE_LOW 1` in `BoardPins.h`. A click is the release of a press shorter than 600 ms (`src/ui/ButtonTracker.h`, `BUTTON_HOLD_MS`; 500 until 2026-09-25); a hold fires at 600 ms and is never also a click.
 - The MMC56x3's control registers are write-only (no read-back): `m` shows its product ID (0x10 on an MMC5603NJ and on the bench's MMC5633NJL) and the fields, nothing else. Its axes: the datasheet's frame has +z out of the package top (the TMAG5273's is into it), which `magSensorToBoard` takes from the type (`magSensorTypeZIntoTop`); the bench part hangs under the board and the recording says its +z reads UP in the board frame, so its row has `underside` false - the module sits face up under the board, or Memsic's arrow is the other way round; the fit does not care which (`MagArrayConfig.h`). Measured on the bench 2026-09-21 with the probe still: 0.3 µT rms a frame per axis (a TMAG: 13 µT in x and y, 7 in z), drift 0.1 µT a minute, and no change at all (< 0.1 µT) with the LED chain switched off and on.
 - `m` pauses the sampler for a 2 ms diagnostic read; `X` is the service table (runs, avg/max µs, overruns) - the first place to look when anything feels slow.
 - The pencil bench: `tools/hostsim/pencil.cpp` (`far` for a hovering hand); the screens simulator `tools/hostsim/screens.cpp` renders every screen to PNG and checks the settings and the paint; `tools/fixstats.py` reads a `d` stream's rest statistics.
@@ -224,7 +224,7 @@ Values are the ones in the tree now. "Where" is the header.
 - **What writes a zero to flash: `z`, the audit, `Y` and the settling of a provisional zero** (the offset filter that follows the drift moves the live baseline only, Phase 3). The drift with nothing present, the quiet-sensor drift, the per-sensor absorb (fast, until quiet) all move the live baseline only. A stale record at boot is absorbed in 40 s and corrected for good the first time the probe is used near.
 - **The cursor when touching** (`MAGTRACK_CONTACT_MM` 1.5, `magTrackPointer`): a point within that of the surface, or under it, is where the user means, whatever the tilt - the cursor is the point, not a projection along the shaft. Above it the probe hovers and points (the tilt taken no flatter than `MAGTRACK_MAX_POINT_TILT_DEG` 70). One geometry for the tracker's cursor and the locator's `fix.pointer`.
 - **The surface is set, the floor is reported.** `S` and the menu's cursor/surface set it; where the point bottoms out (`floorZ`) is printed when it changes by a millimetre, against the surface as set. The learning that moved the surface to the floor is gone in both directions (down: 4 mm under a resting probe; up, in the sim: 6 mm over a probe whose magnet sat 6 mm up the shaft). The saved cursor/surface was 13.2 from that learning; set to 17 on the night, 17.5 wants the menu.
-- **The tip offset from taps** (`q`, `Q`): the point resting in ONE hole, `q` at each of three or more angles (the probe upright, leaning one way, another), then `Q` solves the one t for which magnet - t x shaft coincide (t = sum <m - mean m, s - mean s> / sum |s - mean s|^2), prints the agreement (rms about the hole) and uses it (saved as cursor/tip). The sim (`@tip 6`, the locator believing 0): 5.9 mm from three angles, the points agreeing to 0.03 mm, and a tap at 40 degrees then lights the row tapped. This is the angle compensation: with t right and the contact rule, an angled tap lands on its hole. `cursor/tip` is 0 on the bench and the magnet is not at the point: do this first thing.
+- **The tip offset from taps** (`q`, `Q`): the point resting in ONE hole, `q` at each of three or more angles (the probe upright, leaning one way, another), then `Q` solves the one t for which magnet - t x shaft coincide (t = sum <m - mean m, s - mean s> / sum |s - mean s|^2), prints the agreement (rms about the hole) and uses it (saved as tracking/tip). The sim (`@tip 6`, the locator believing 0): 5.9 mm from three angles, the points agreeing to 0.03 mm, and a tap at 40 degrees then lights the row tapped. This is the angle compensation: with t right and the contact rule, an angled tap lands on its hole. `cursor/tip` is 0 on the bench and the magnet is not at the point: do this first thing.
 - **The far glow, smoothly** (`MAGTRACK_ROUGH_CUTOFF_HZ` 0.5): a rough fix's cursor and view go through a calmer filter with no opening for speed; the 90 mm hover's cursor scatter halves (4.4/3.1 mm against 9/8 raw).
 - **The sim's noise is the bench's** (2026-09-23: the pencil figures in this section and in section 4 are from an isotropic 0.010 world; the sim now draws the bench's 0.012/0.012/0.006 and pencil's numbers are re-based in section 9, so do not read the two against each other) (`world.noise` 0.010, pencil 0.010 an axis: 0.012 mT a frame for a TMAG5273 measured, the MMC's 0.0003 by its ratio; it was 0.005-0.006). Pencil at that noise: track 0.78 mm rms moving / 0.24 at rest, jitter 0.094 mm, shaft 0.98 deg at rest - what the bench showed (0.1 mm, 0.8 deg). The smoothing levers were tried over a grid at this noise (view 0.8-1.5 Hz, betas 0.3-0.5, cursor 0.7-1, shaft 0.6-1 / 3-10) and nothing moved: while the probe moves the betas open the cutoffs far past the minimums, and at rest the jitter itself does; the levers stay. Far: 40 mm tracks, 60 and 90 mm rough (misfit 6 %, bars 8 and 12 mm).
 - **Power, self-recovering.** (1) `ch32h4_v3f_before_wake()`: a weak hook in the Arduino core's `main_v3f.c`, applied to the installed core by `scripts/patch_core.py` before every build (idempotent, verified, loud if the file changed; the core is pinned by commit and the right home is upstream); the sketch's `LedStripDark.cpp` implements it: the V3F sends every strip pin a frame of black by the same SPI timing as the live frames (the hardware's, not a counted loop - a bit sent long is a lit LED), polled, no runtime, then prints "V3F: the LED chain darkened before the wake". A boot with the chain lit no longer falls over at the wake until a hand cuts the power (the 2026-09-21 loop: sixty resets in four seconds, `rst=... por` each). (2) The V5F does the same first thing in setup(). (3) `PROBELED_MAX_STEP_MA` 150: a frame's current may rise by at most that over the last frame's (a fall is not limited): a cursor lighting up ramps over a few frames instead of stepping the rail. (4) `PROBELED_STRIP_HARD_MAX_MA` 800 (was 2000) and the default budget 600 (was 1000): the 2026-09-19 brown-out was ~900 by the model and the 09-21 loop came under a budget of 1000-1100; a saved 1000 or 1100 falls back to the default (out of the menu's range). The LEDs share the board's supply on this bench; a supply of their own is what lifts the ceiling.
@@ -269,7 +269,7 @@ Also from `m`: `samplesPerFrame` (the design is 3.3; 1-2 during far fits means t
 
 **What counts as fixed** (the "before" column is filled from the captures above, the "after" after each change):
 
-**What Phase 3 adds to paste back (2026-09-23 evening).** The fix line (`l`) now prints its `chi` (the acceptance: under 2.0, the menu's "fit chi"); `:load`'s reasons are "nothing present", "too few noticing", "the track coasted out", "cold starts rejected"; `:audit` shows each sensor's zero and its three gains, and its "corrections applied" count; `s` shows `sensorgain=` lines for any trim the audit applied. So each regime's end: `readport <port> 8 <file> $'d\r:load\rl\r:audit\rs\r'`. Before a magcal `f` recording: `:audit forget` (the `mag,` stream is the board-frame field, the audit's trim included), or paste `s` alongside it. What the numbers settle now, on top of the four below: whether real near fixes fail the chi at 2.0 with the zero doubt floored at 0.001 mT (the fix line's chi at rest and at reach; "fit chi" on the tracker page is the valve, no reflash), the two zero clocks (an absent run's zero drift per sensor, a hover's presence flicker), the footprint margin (row 1 and row 30 with the probe resting), and the audit's gains (does a real sensor read more than 20 % off? what does `:audit` say after ten minutes of use?).
+**What Phase 3 adds to paste back (2026-09-23 evening).** The fix line (`l`) now prints its `chi` (the acceptance: under 2.0, the menu's "fit chi"); `:load`'s reasons are "nothing present", "too few noticing", "the track coasted out", "cold starts rejected"; `:audit` shows each sensor's zero and its three gains, and its "corrections applied" count; `s` shows `sensorgain=` lines for any trim the audit applied. So each regime's end: `readport <port> 8 <file> $'d\r:load\rl\r:audit\rs\r'`. Before a magcal `f` recording: `:audit forget` (the `mag,` stream is the board-frame field, the audit's trim included), or paste `s` alongside it. What the numbers settle now, on top of the four below: whether real near fixes fail the chi at 2.0 with the zero doubt floored at 0.001 mT (the fix line's chi at rest and at reach; "fit chi" on the tracking page is the valve, no reflash), the two zero clocks (an absent run's zero drift per sensor, a hover's presence flicker), the footprint margin (row 1 and row 30 with the probe resting), and the audit's gains (does a real sensor read more than 20 % off? what does `:audit` say after ten minutes of use?).
 
 (Counted since Phase 3 step 4b, 2026-09-23: every arrival of the probe costs TWO cold starts on the counter - the first, fitted on fields the smoothing is still settling, fails the chi and is retried at the next slice - and `:load`'s reasons are "nothing present", "too few noticing", "the track coasted out" and "cold starts rejected", plus "frames the held strength's refinement was rejected and the free fit went on"; "the misses run out", "disowned by the TMAGs" and "found again" are gone with their mechanisms. The 09-19 before-numbers were counted under the old rule: compare the reasons, not the total.)
 
